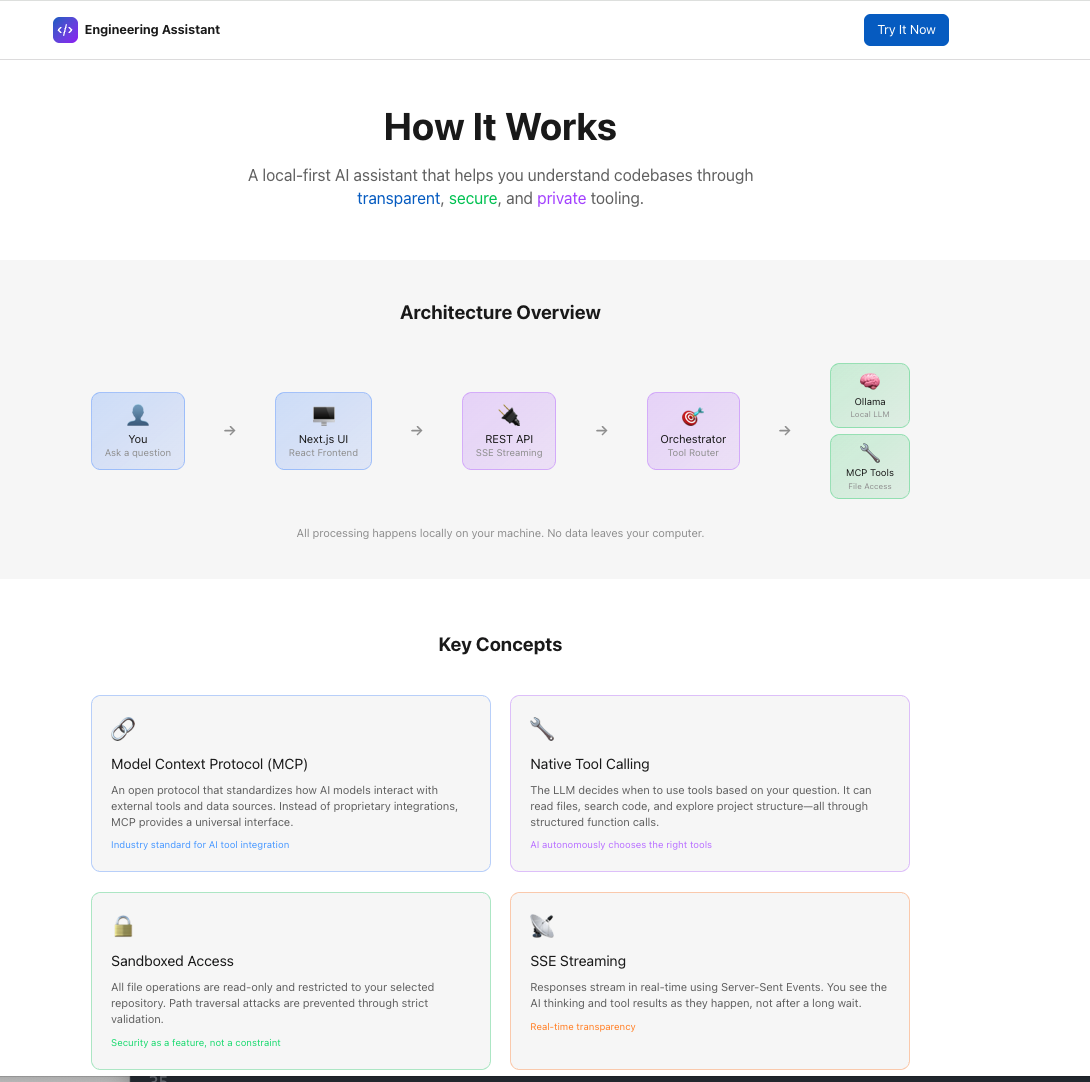
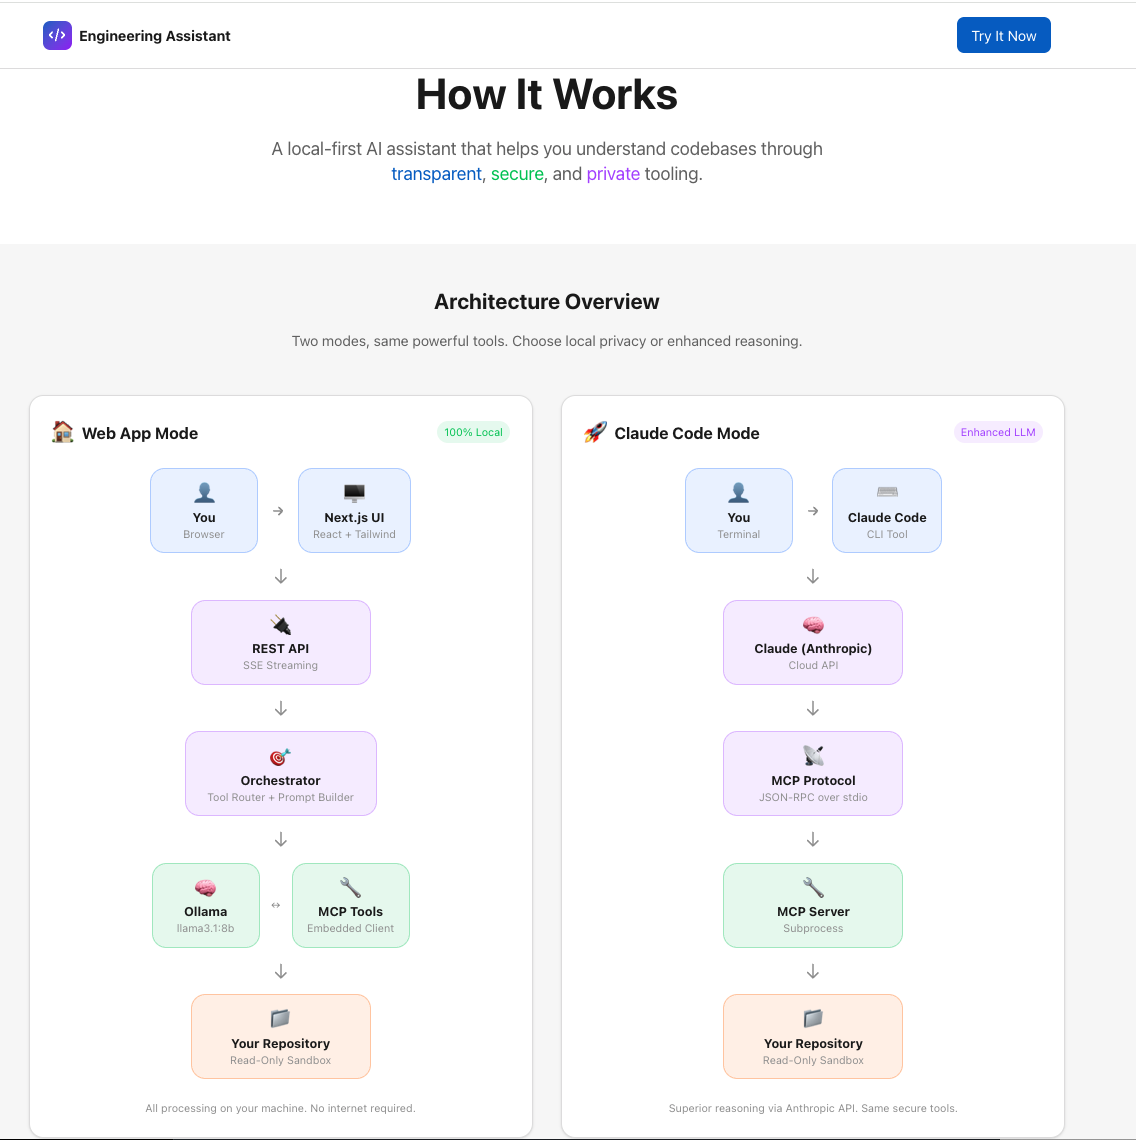
Add MCP context and TwoWaysToRun screenshot to README
- Add "Why This Project?" section explaining MCP protocol benefits
- Document both Web App and MCP Server modes in intro
- Add TwoWaysToRun.png screenshot showing dual-mode architecture
- Update Claude Code Integration intro text
- Update HowItWorks screenshot

diff --git a/README.md b/README.md
@@ -2,11 +2,20 @@
 
 A **local-first AI assistant** that helps developers understand codebases through transparent, secure, and well-designed tooling.
 
-**100% Private** - Runs entirely on your machine using Ollama. No data leaves your computer.
-
 ![License](https://img.shields.io/badge/license-MIT-blue.svg)
 ![Node](https://img.shields.io/badge/node-18%2B-green.svg)
 ![TypeScript](https://img.shields.io/badge/TypeScript-5.0-blue.svg)
+
+## Why This Project?
+
+**The Model Context Protocol (MCP)** is an open standard that defines how AI models interact with external tools and data sources. Instead of proprietary integrations, MCP provides a universal interface—like USB for AI tools. Any MCP-compatible tool works with any MCP-compatible AI system.
+
+This project demonstrates MCP's flexibility by providing **two ways to use the same tools**:
+
+1. **Web App Mode** - A complete local UI powered by Ollama. 100% private, no data leaves your machine.
+2. **MCP Server Mode** - Connect the same tools to Claude Code, Cursor, or any MCP-compatible AI assistant for more powerful reasoning.
+
+Same sandboxed, read-only file access. Same security guarantees. Your choice of interface and LLM.
 
 ## Screenshots
 
@@ -24,6 +33,11 @@ Configure your repository path, select models, and adjust LLM parameters.
 Visual architecture documentation explaining the data flow and key concepts.
 
 ![How It Works](screenshots/HowItWorks.png)
+
+### Two Ways to Run
+Use the local web app with Ollama, or connect the MCP server to Claude Code for enhanced reasoning.
+
+![Two Ways to Run](screenshots/TwoWaysToRun.png)
 
 ## Features
 
@@ -181,7 +195,7 @@ This eliminates the need to "warm up" with a structure question - you can ask "E
 
 ## Claude Code Integration
 
-The MCP server can also be used with [Claude Code](https://claude.ai/code) for a more powerful LLM experience.
+Because this project implements MCP, the same tools that power the web app can be used with any MCP-compatible AI assistant. [Claude Code](https://claude.ai/code) is Anthropic's CLI tool that supports MCP servers out of the box.
 
 ### Two Modes of Operation
 
